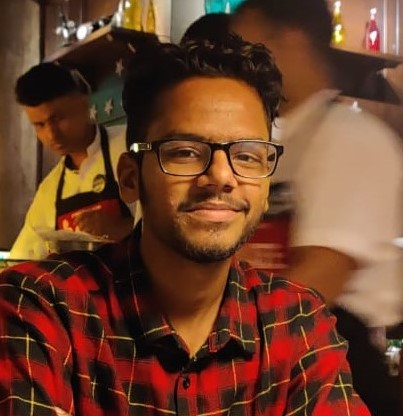
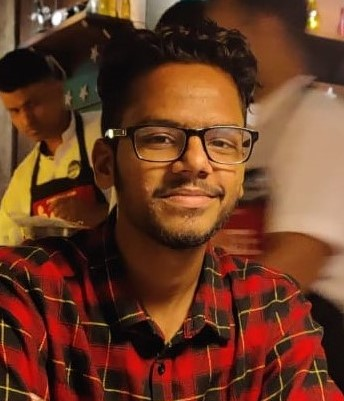
img size adjust

diff --git a/Resume/index.html b/Resume/index.html
@@ -20,7 +20,7 @@
     <section id="header">
       <div class="container text-center">
         <div class="user-box">
-          <img src="img/user.jpg">
+          <img src="img/user.jpg" height="250px" width="250px">
           <h1>Gulshan Chandolia</h1>
           <p>Computer Science Graduate</p>
         </div>

diff --git a/Resume/style.css b/Resume/style.css
@@ -24,7 +24,6 @@ body{
 
 .user-box img{
 	border-radius: 50%;
-	height: 250px;
 	border: 2px solid #356f91;
 }
 
